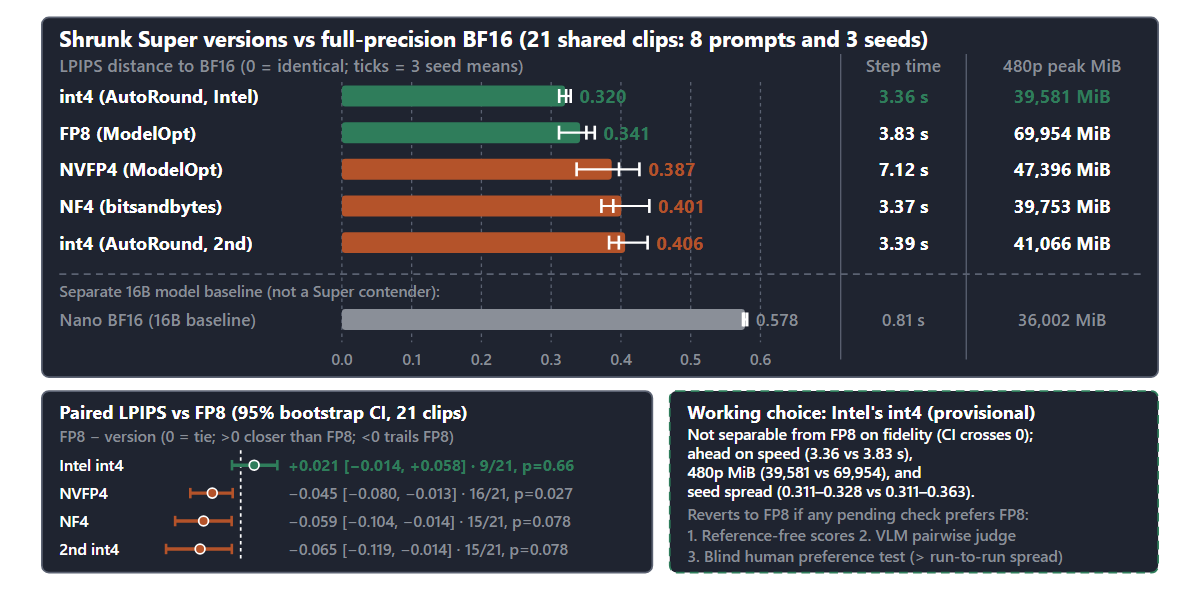
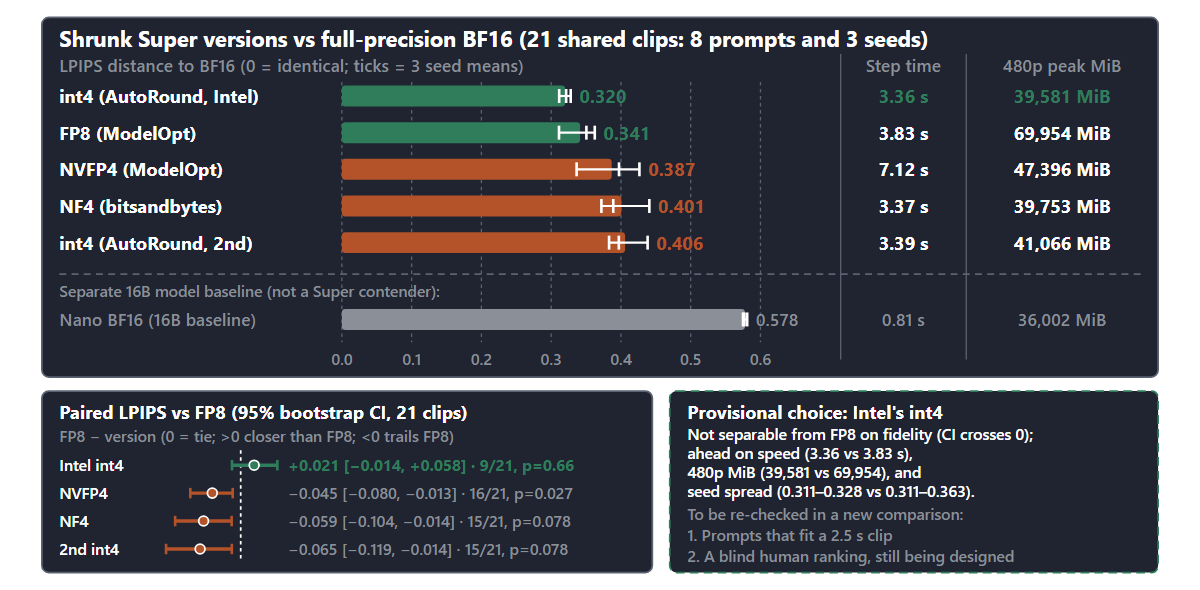
rnd 1.1.23.1.47: correct issue 34's Super section (#256)
Three of the eight Super prompts ask more than a 2.5-second clip can
show, so no version finishes them. The scores still compare each
version with full precision on the same prompt, but they don't show
whether any clip is good.

- New last bullet under "The scores have limits", and a dated
  correction line at the top of the Super section.
- "working choice for now" becomes "our provisional choice" in the
  description, the highlight and the body; the revert rule and the
  chart alt text now name the re-run with prompts that fit and a blind
  ranking by people, both still being designed.
- Chart text (four lines) updated to match; PNG re-rendered and the
  manifest updated. No numbers changed.

Changed region(s): [[0.555, 0.8542, 0.8942, 0.9763], [0.555, 0.6712, 0.8633, 0.7322]]

diff --git a/mcptoolshop_rnd/__init__.py b/mcptoolshop_rnd/__init__.py
@@ -1,3 +1,3 @@
 """The studio R&D seat: a Markdown research library with a rebuildable SQLite index."""
 
-__version__ = "1.1.23.1.46"
+__version__ = "1.1.23.1.47"

diff --git a/site/src/content/docs/newsletter/issue-34.md b/site/src/content/docs/newsletter/issue-34.md
@@ -1,13 +1,13 @@
 ---
 title: '29 October: repaired test sets certify 44 of 50, long tool lists cost a model its "no", and Cosmos 3 on one rented card'
-description: "Rewritten so that every pair is a clear contradiction, and keyed blind before any reader saw them, the reasoning-dataset-lab sets certified 44 of 50, against 26 before; the thinking setting we suspected turned out not to be what cut the length stops. A test of tool lists from 5 to 100 found that two local models kept picking the right tool, but one of them declined less often when the prompt grew long, and retrieving five tools kept its \"no\" intact. NVIDIA's Cosmos 3 made its first clips on rented cards: one Nano clip on one card, a 30-second rollout from the two-armed robot checkpoint, and five shrunk versions of the bigger Super model, of which Intel's int4 export is our working choice for now. Then the raw files behind our figures get a public home, a read of GitHub's Universe announcements, notes in brief, and the daily watch."
+description: "Rewritten so that every pair is a clear contradiction, and keyed blind before any reader saw them, the reasoning-dataset-lab sets certified 44 of 50, against 26 before; the thinking setting we suspected turned out not to be what cut the length stops. A test of tool lists from 5 to 100 found that two local models kept picking the right tool, but one of them declined less often when the prompt grew long, and retrieving five tools kept its \"no\" intact. NVIDIA's Cosmos 3 made its first clips on rented cards: one Nano clip on one card, a 30-second rollout from the two-armed robot checkpoint, and five shrunk versions of the bigger Super model, of which Intel's int4 export is our provisional choice. Then the raw files behind our figures get a public home, a read of GitHub's Universe announcements, notes in brief, and the daily watch."
 issue: 34
 date: 2026-10-29
 highlights:
   - "<strong>44 of 50 sets certified.</strong> Every pair rewritten to be a clear contradiction and keyed blind first, the sets certified 44 of 50, against 26 before. The cleaner sets, not the thinking setting, cut the length stops."
   - "<strong>Long tool lists held; the \"no\" slipped.</strong> With 5 to 100 tools, Granite 4.2 8B and Qwen3.8-27B kept picking the right tool. Granite declined 19 of 30 no-tool requests at 40 tools and 18 on a padded 10-tool prompt; retrieving five tools kept it at 27 to 30."
   - "<strong>A world model on one rented card.</strong> Cosmos 3 Nano made an 8-second clip on one RTX PRO 6000 card in a 628-second window, about 1.55 compute units, with generation within 2% of our estimate."
-  - "<strong>Super on one card, for now in int4.</strong> Five shrunk versions of Cosmos 3 Super ran on one G4. Intel's int4 export wasn't separable from FP8 on fidelity, and ran faster in less memory, so it's our working choice for now."
+  - "<strong>Super on one card, for now in int4.</strong> Five shrunk versions of Cosmos 3 Super ran on one G4. Intel's int4 export wasn't separable from FP8 on fidelity, and ran faster in less memory, so it's our provisional choice."
   - "<strong>rnd-data is public.</strong> The raw files behind our figures, 111 runs so far, now have a repository of their own."
   - "<strong>GitHub Universe 2026.</strong> We read the agent-centred announcements on GitHub's own pages, and checked an AI search summary of them against those pages."
 ---
@@ -188,6 +188,8 @@ benchmark. Closed-loop control is the next rung, and it isn't designed yet.
 
 ### Super, shrunk to fit one card
 
+*Corrected 30 October: see the last limit below.*
+
 Super won't fit a single Colab card in BF16. Uploads on Hugging Face shrink it, so we asked which of them
 run on one G4, how fast, and in how much memory. Each made the same three 61-frame clips at 480p (35 steps, the same
 prompts and seed), plus a 50-step still:
@@ -232,10 +234,10 @@ Paired clip by clip against FP8:
 
 The two are not separable on fidelity, and on everything else measured Intel's int4 is ahead. It took 3.36 s a step against
 FP8's 3.83 in the wider round, and peaked at 39,581 MiB at 480p against 69,954. It ran 720p in 45,680 MiB against
-76,054, and had the narrowest spread across the three seeds of any Super version (0.311 to 0.328). So it's our working
-choice, for now. It goes back to FP8 if any of three checks still to run prefers FP8 by more than that check's own
-run-to-run spread: scores that need no reference, a vision-language model judging clips in pairs, and a blind
-preference test by people.
+76,054, and had the narrowest spread across the three seeds of any Super version (0.311 to 0.328). So it's our
+provisional choice. It stays provisional until a re-run with prompts that fit a 2.5-second clip and a blind ranking by
+people, both still being designed, support it; it goes back to FP8 if they prefer FP8 by more than their own
+run-to-run spread.
 
 The scores have limits:
 
@@ -246,10 +248,15 @@ The scores have limits:
 - **The card counts too.** Part of each gap comes from the card, not from the shrinking. On the first round's clips,
   FP8 on the B200 scored 0.345 against full precision on that same card, and FP8 on the G4 scored 0.193 against FP8 on
   the B200.
+- **Three prompts ask too much of the clip.** Three of the eight prompts (a box picked up and placed on a pallet, a
+  bowl handed between grippers into a rack, and a robot walking through a door) ask for more than a 2.5-second clip
+  can show, so no version finishes them. The scores compare each version with full precision on the same prompt, so
+  they still hold, but they don't show whether any clip is good. We are re-running the comparison with prompts that
+  fit.
 
 Why FP8 is no faster than the 4-bit versions here hasn't been looked into.
 
-![Five shrunk versions of Cosmos 3 Super against the full-precision model over 21 shared clips (8 prompts and 3 seeds), plus the smaller 16B Nano model at full precision as a separate baseline. Mean LPIPS distance to full precision (0 is identical, lower is closer), with the range of the three seed means, time a step and peak memory at 480p: Intel's int4 AutoRound 0.320 (seeds 0.311–0.328; 3.36 s; 39,581 MiB), FP8 0.341 (0.311–0.363; 3.83 s; 69,954 MiB), NVFP4 0.387 (0.337–0.426; 7.12 s; 47,396 MiB), NF4 (bitsandbytes) 0.401 (0.372–0.441; 3.37 s; 39,753 MiB), a second int4 AutoRound export 0.406 (0.383–0.438; 3.39 s; 41,066 MiB), and Nano 0.578 (0.575–0.581; 0.81 s; 36,002 MiB). Paired against FP8, Intel's int4 is not separable on fidelity (FP8's mean 0.021 higher, 95% interval −0.014 to +0.058, FP8 closer on 9 of 21 clips, p = 0.66); the other three trail FP8, with intervals entirely below zero. Intel's int4 is the provisional working choice, and goes back to FP8 if reference-free scores, a vision-language judge or a blind preference test by people prefer FP8 by more than their own run-to-run spread.](/rnd/charts/issue-34-super-shrunk-comparison.svg)
+![Five shrunk versions of Cosmos 3 Super against the full-precision model over 21 shared clips (8 prompts and 3 seeds), plus the smaller 16B Nano model at full precision as a separate baseline. Mean LPIPS distance to full precision (0 is identical, lower is closer), with the range of the three seed means, time a step and peak memory at 480p: Intel's int4 AutoRound 0.320 (seeds 0.311–0.328; 3.36 s; 39,581 MiB), FP8 0.341 (0.311–0.363; 3.83 s; 69,954 MiB), NVFP4 0.387 (0.337–0.426; 7.12 s; 47,396 MiB), NF4 (bitsandbytes) 0.401 (0.372–0.441; 3.37 s; 39,753 MiB), a second int4 AutoRound export 0.406 (0.383–0.438; 3.39 s; 41,066 MiB), and Nano 0.578 (0.575–0.581; 0.81 s; 36,002 MiB). Paired against FP8, Intel's int4 is not separable on fidelity (FP8's mean 0.021 higher, 95% interval −0.014 to +0.058, FP8 closer on 9 of 21 clips, p = 0.66); the other three trail FP8, with intervals entirely below zero. Intel's int4 is the provisional choice, to be re-checked in a re-run with prompts that fit the clip and a blind ranking by people.](/rnd/charts/issue-34-super-shrunk-comparison.svg)
 
 ### The reference: full precision on one B200
 

diff --git a/CHANGELOG.md b/CHANGELOG.md
@@ -11,6 +11,10 @@ NANO an ordinary library update (entries filed or revised, results added).
 
 ## [Unreleased]
 
+## [1.1.23.1.47] - 2026-10-29
+
+- Newsletter issue 34 corrected: three of the eight Super prompts ask more than a 2.5-second clip can show, so the scores show closeness to full precision but not whether a clip is good; int4 is now the provisional choice, to be re-checked with prompts that fit and a blind ranking by people. Chart text updated to match; no numbers changed.
+
 ## [1.1.23.1.46] - 2026-10-29
 
 - licences for local evaluation subjects and two vision judges
